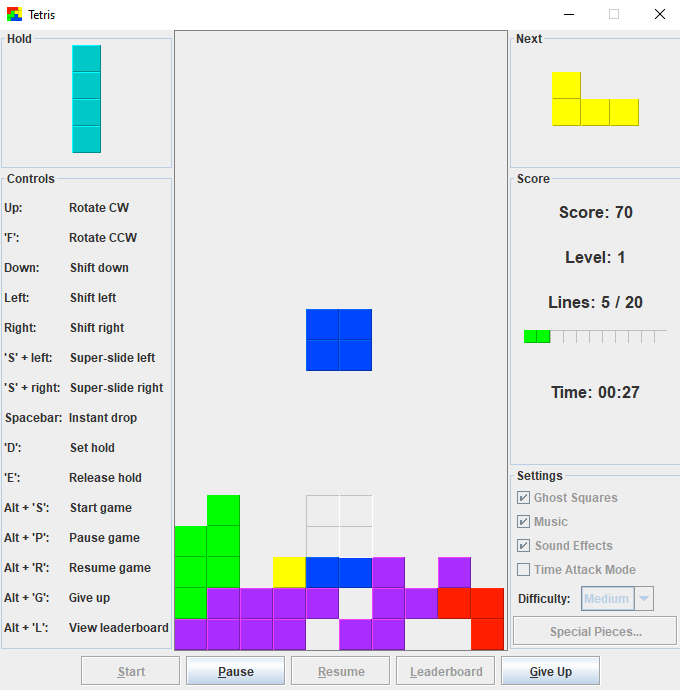
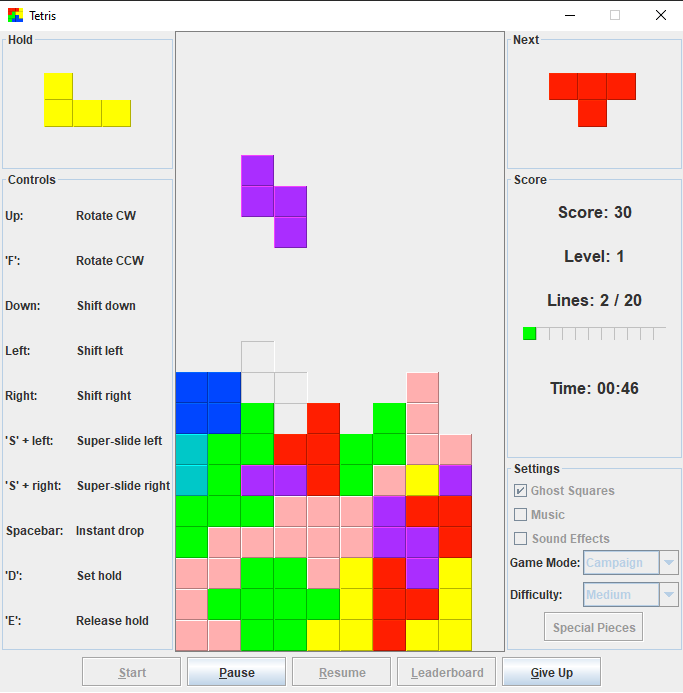
Clean up settings panel UI

diff --git a/src/main/java/com/github/tylersharpe/tetris/swing/MasterTetrisFrame.java b/src/main/java/com/github/tylersharpe/tetris/swing/MasterTetrisFrame.java
@@ -601,20 +601,9 @@ public class MasterTetrisFrame extends JFrame {
                 boardPanel.repaint();
             });
 
-            gameModeComboBox = new JComboBox<>(GameMode.values());
-            gameModeComboBox.addActionListener(e -> game.setGameMode(getSelectedGameMode()));
-            gameModeComboBox.setSelectedIndex(0);
-
             difficultyComboBox = new JComboBox<>(Difficulty.values());
             difficultyComboBox.addActionListener(e -> game.setDifficulty(getSelectedDifficulty()));
             difficultyComboBox.setSelectedIndex(0);
-
-            specialsButton = new TetrisButton("Special Pieces");
-            specialsButton.addActionListener(e -> specialsButton.bindDisabledStateToFrame(new SpecialPiecesFrame()));
-
-            JPanel difficultyPanel = new JPanel();
-            difficultyPanel.add(new JLabel("Difficulty:"));
-            difficultyPanel.add(difficultyComboBox);
             difficultyComboBox.setToolTipText(
                 "<html>" +
                     "<p>Sets the game difficulty. The difficulty affects the following game parameters:</p>" +
@@ -649,9 +638,9 @@ public class MasterTetrisFrame extends JFrame {
                 "</html>"
             );
 
-            JPanel gameModePanel = new JPanel();
-            gameModePanel.add(new JLabel("Mode:"));
-            gameModePanel.add(gameModeComboBox);
+            gameModeComboBox = new JComboBox<>(GameMode.values());
+            gameModeComboBox.addActionListener(e -> game.setGameMode(getSelectedGameMode()));
+            gameModeComboBox.setSelectedIndex(0);
             gameModeComboBox.setToolTipText(
                 "<html>" +
                     "<ul>" +
@@ -673,22 +662,39 @@ public class MasterTetrisFrame extends JFrame {
                 "</html>"
             );
 
+            specialsButton = new TetrisButton("Special Pieces");
+            specialsButton.addActionListener(e -> specialsButton.bindDisabledStateToFrame(new SpecialPiecesFrame()));
+
             setBorder(new TitledBorder("Settings"));
 
+            // checkbox settings
+            JPanel checkboxPanel = new JPanel(new GridLayout(3, 1));
+            checkboxPanel.add(ghostSquaresCheckbox);
+            checkboxPanel.add(musicCheckbox);
+            checkboxPanel.add(soundEffectsCheckbox);
+
+            // combobox setting
+            JPanel comboBoxLabelsPanel = new JPanel(new GridLayout(2, 1, 7, 7));
+            comboBoxLabelsPanel.add(new JLabel("Game Mode: "));
+            comboBoxLabelsPanel.add(new JLabel("Difficulty: "));
+
+            JPanel comboBoxControlsPanel = new JPanel(new GridLayout(2, 1, 7, 7));
+            comboBoxControlsPanel.add(gameModeComboBox);
+            comboBoxControlsPanel.add(difficultyComboBox);
+
+            JPanel comboBoxPanel = new JPanel(new BorderLayout());
+            comboBoxPanel.add(comboBoxLabelsPanel, BorderLayout.WEST);
+            comboBoxPanel.add(comboBoxControlsPanel, BorderLayout.EAST);
+
+            // specials button
             JPanel specialsPanel = new JPanel();
             specialsPanel.add(specialsButton);
-            var settingComponents = List.of(
-                    ghostSquaresCheckbox,
-                    musicCheckbox,
-                    soundEffectsCheckbox,
-                    gameModePanel,
-                    difficultyPanel,
-                    specialsPanel);
 
-            setLayout(new GridLayout(settingComponents.size(), 1));
-            for (var settingComponent : settingComponents) {
-                add(settingComponent);
-            }
+            // assemble settings frame
+            setLayout(new BorderLayout());
+            add(checkboxPanel, BorderLayout.NORTH);
+            add(comboBoxPanel, BorderLayout.CENTER);
+            add(specialsPanel, BorderLayout.SOUTH);
         }
 
         GameMode getSelectedGameMode() {

diff --git a/README.md b/README.md
@@ -1,15 +1,13 @@
-The Tetris we all know in love built in Java using Swing!
+The Tetris we all know and love built in Java using Swing!
 
 ![game screenshot](screenshots/tetris.png)
 
 # Features
-- 10 levels, each sporting a classic retro video game soundtrack
-- A local leaderboard to track your scores overtime
-- 3 difficulty settings to control block speed and points earned
-- Support for holding blocks
+- Campaign mode which provides 10 levels of play, each sporting a classic retro video game soundtrack
+- Local leaderboard to track your scores overtime
 - Time-attack mode which restricts the amount of time allowed for each level
-- Toggleable special blocks which provide a point bonus per lines cleared
-- 'Ghost Square' outline showing where the block would be placed if insta-dropped
+- Free play mode which allows the player to continue play until they game over
+- A variety of special blocks which, when enabled, provide a point bonus for each line cleared
 
 # Building / Running
 Run `gradlew jar` from the root of this project to build an executable JAR file at **build/libs/Tetris.jar**
